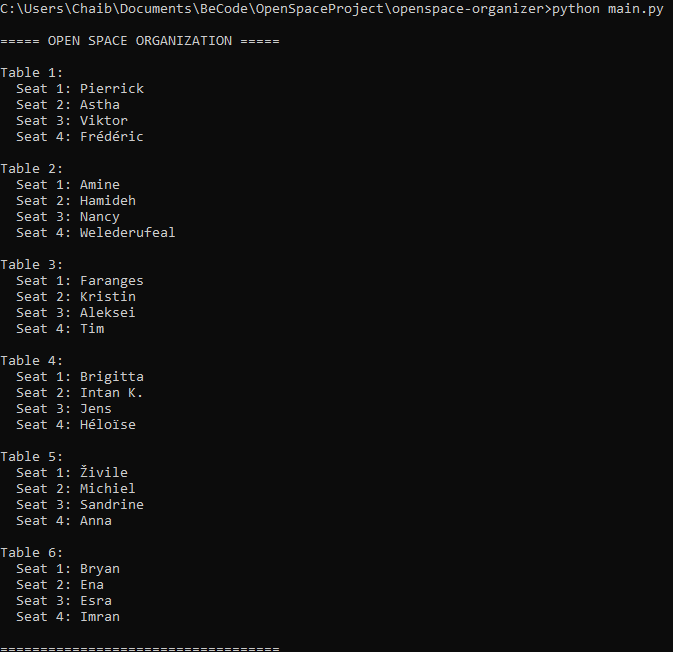
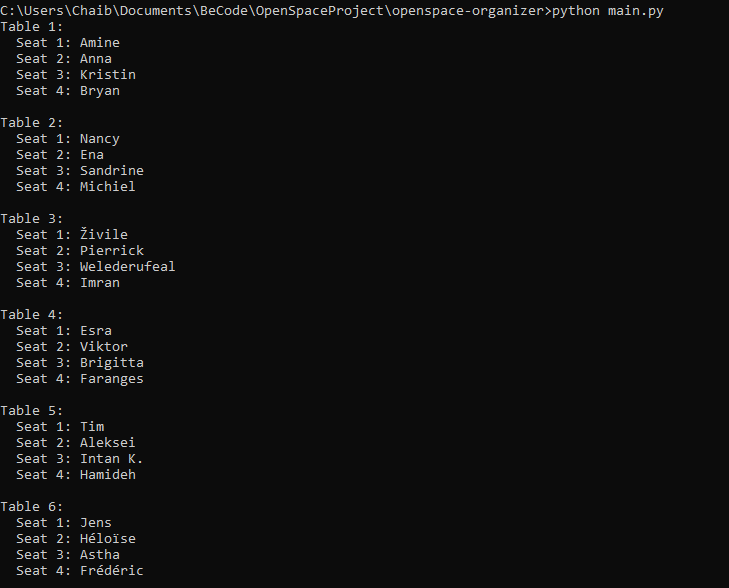
images output update

Changed region(s): [[0.0, 0.0, 0.9985, 1.0]]

diff --git a/README.md b/README.md
@@ -88,8 +88,6 @@ Each day, the program assigns everyone to a new seat across six tables with four
 
 The file "output.csv" :
 
-===== OPEN SPACE ORGANIZATION =====<br>
-<br>
 Table 1:<br>
   Seat 1: Pierrick<br>
   Seat 2: Astha<br>
@@ -126,7 +124,6 @@ Table 6:<br>
   Seat 3: Esra<br>
   Seat 4: Imran<br>
 
-===================================
 
 ## ⏱ Timeline
 
